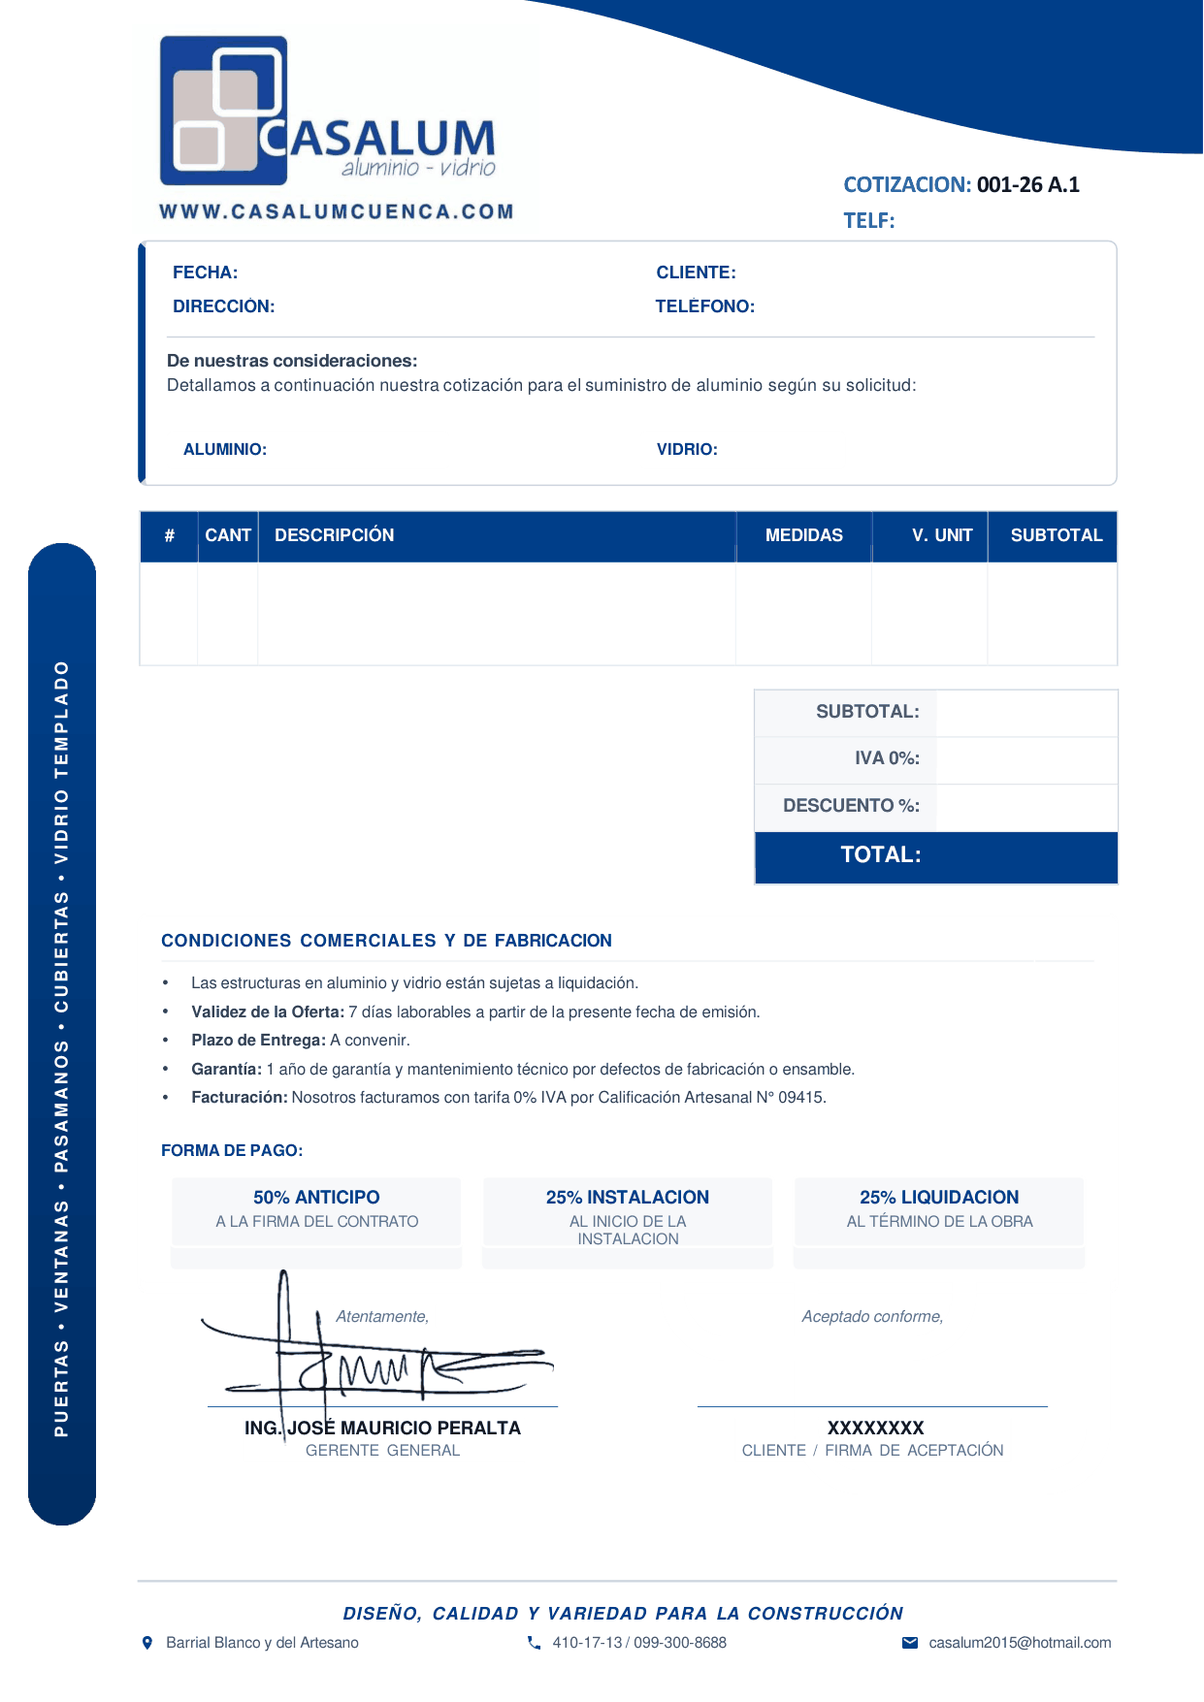
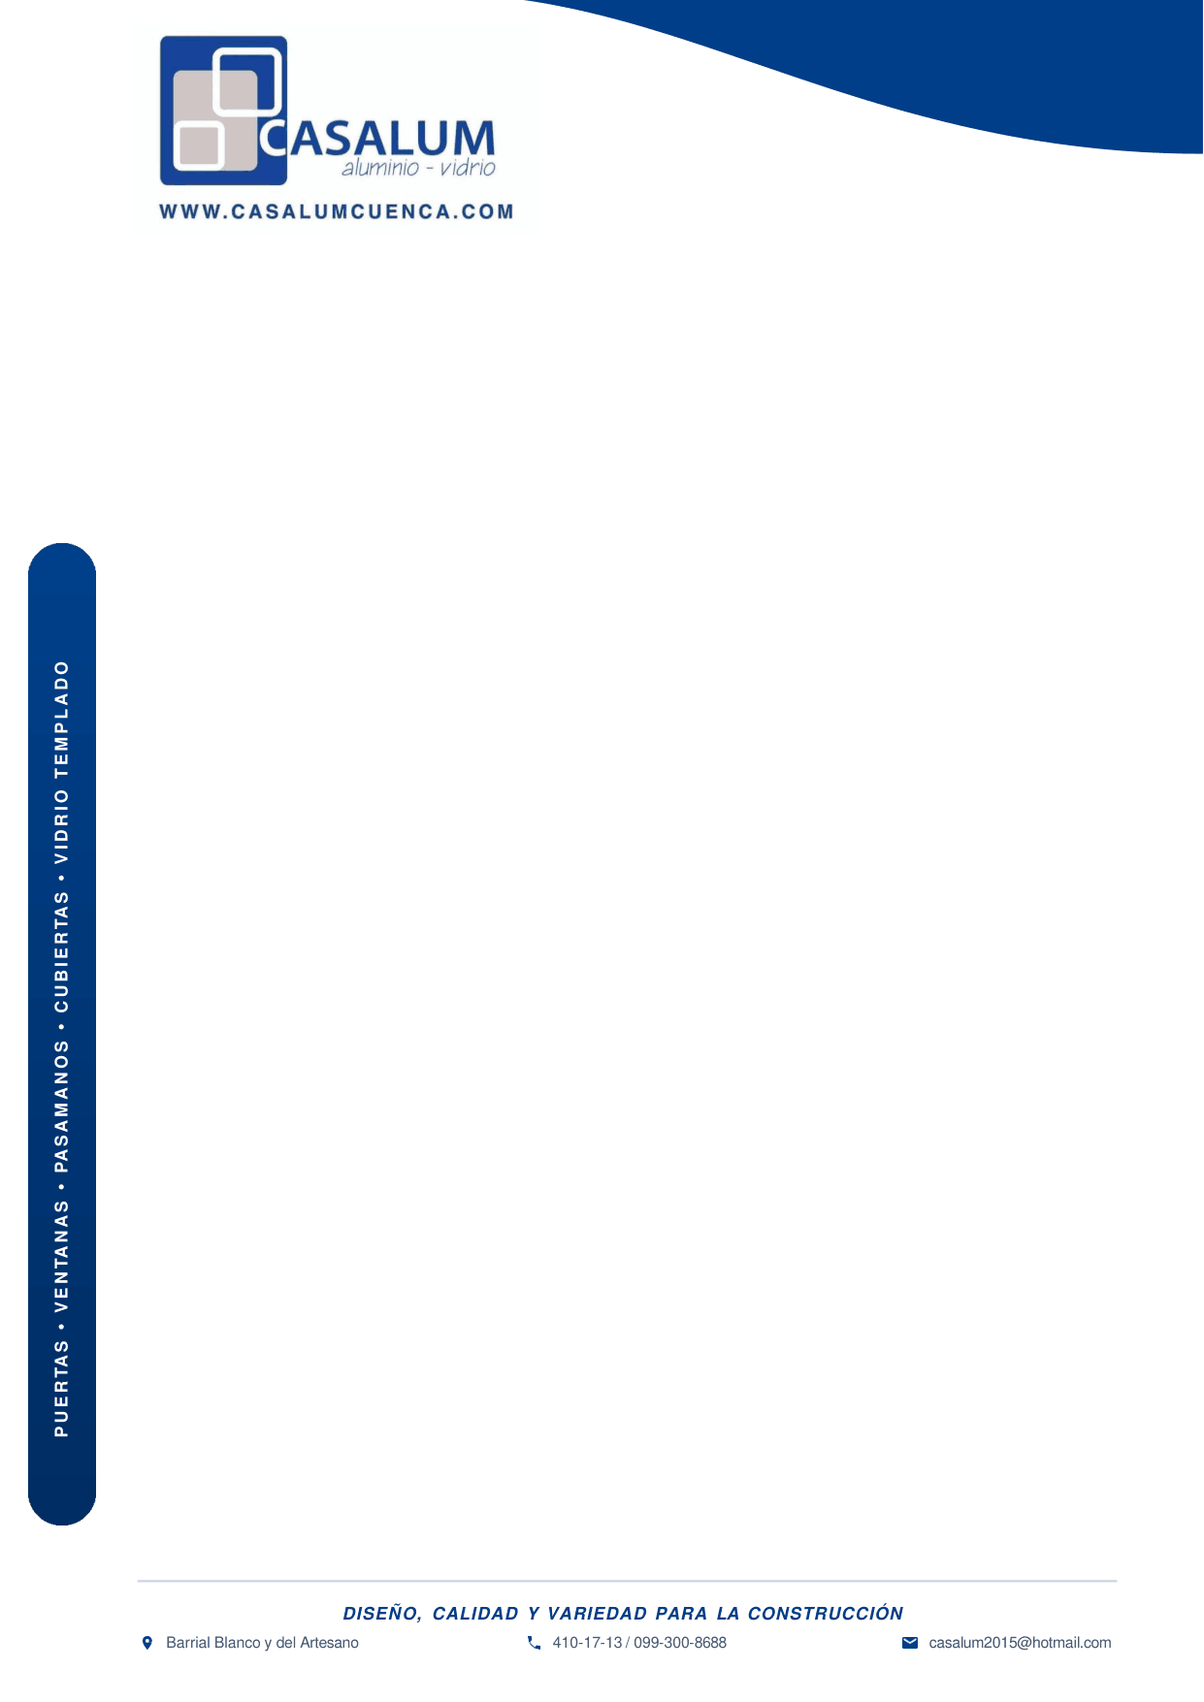
Documento con el diseno nuevo: el marco de fondo y el formulario en HTML
El membrete que quedo en assets era el formulario COMPLETO (rotulos,
tabla vacia, totales, condiciones y firmas ya dibujados), asi que el
documento escribia sus datos encima y salia todo superpuesto.

Se separa en dos: membrete-formulario.png guarda el diseno tal como lo
mando Mati, y membrete.png queda solo con el marco (logo, franja azul,
barra lateral y pie). El formulario se redibuja en HTML sobre ese marco.

Se hizo asi, y no dejando el formulario en la imagen, porque con el
formulario dibujado habria que escribir en coordenadas fijas y volvia el
problema viejo: descripciones cortadas y un tope de filas por hoja. Con
el formulario en HTML la tabla crece y pagina sola.

El diseno reproduce el del usuario: ficha del cliente, tabla
# CANT DESCRIPCION MEDIDAS V. UNIT SUBTOTAL, cuadro de totales con
SUBTOTAL/IVA/DESCUENTO/TOTAL, condiciones comerciales, las tres cajas de
forma de pago y las dos firmas con la firma real del gerente.

Margenes medidos sobre el marco nuevo: arriba 39 mm, abajo 23 mm,
izquierda 19 mm (la barra lateral llega a 16,6 mm).

Verificado imprimiendo con Chrome headless los 54 items de la 167-26:
4 paginas A4, el marco en TODAS, encabezado de tabla repetido, cero
superposiciones y descripciones completas.

diff --git a/js/word.js b/js/word.js
@@ -10,27 +10,33 @@
  *   · Word -> el mismo HTML con marcas de Office, descargado como .doc
  *   · PDF  -> el mismo HTML impreso desde un iframe aislado (Guardar como PDF)
  *
- * El formato copia la cotización real de Casalum (ver 167-26 A.1): mismas
- * columnas (VIDRIO, BASE y ALTURA separadas), mismo encabezado de carta y
- * mismo bloque de condiciones y firmas.
+ * El diseño reproduce el formulario que armó el usuario
+ * (assets/membrete-formulario.png): ficha del cliente, tabla de detalle,
+ * cuadro de totales, condiciones comerciales, formas de pago y firmas.
  *
- * MEMBRETE: va como imagen de fondo a hoja completa, repetida en todas las
- * páginas. El contenido no se dibuja encima porque la tabla exterior reserva
- * con thead/tfoot el alto del encabezado y del pie en CADA hoja — un
- * padding-top no serviría, se aplica una sola vez y las hojas siguientes
- * arrancarían pisando el logo.
+ * MARCO: `assets/membrete.png` es ese mismo diseño pero SIN el formulario —
+ * solo el logo, la franja azul, la barra lateral y el pie. Se le borró el
+ * cuerpo a propósito: si se dejara el formulario dibujado en la imagen, habría
+ * que escribir los datos en coordenadas fijas y volveríamos al problema viejo
+ * (descripciones cortadas y una cantidad tope de filas por hoja). Acá la
+ * imagen es solo el papel y el formulario se dibuja en HTML, así la tabla
+ * crece y pagina sola.
  *
- * Los márgenes salen de medir la cotización real: texto desde el 6,3% del
- * ancho, arriba al 12,8% y abajo hasta el 92,4% del alto.
+ * El marco va como imagen fija a hoja completa, repetida en todas las páginas.
+ * El contenido no lo pisa porque la tabla exterior reserva con thead/tfoot el
+ * alto del encabezado y del pie en CADA hoja — un padding-top se aplica una
+ * sola vez y las hojas siguientes arrancarían encima del logo.
  *
  * Todo el maquetado va con TABLAS y estilos en línea a propósito: Word no
  * entiende flexbox ni grid, y las hojas de estilo aparte las aplica a medias.
  */
 class QuotationDocument {
 
-    // Zona libre de la hoja, medida sobre la cotización real (mm sobre A4).
+    // Zona libre de la hoja, medida sobre assets/membrete.png (mm sobre A4):
+    // el logo y la franja azul llegan hasta 38,6 mm; la barra lateral ocupa los
+    // primeros 16,6 mm de ancho; el pie arranca a los 275,7 mm.
     static get MARGENES() {
-        return { arriba: 38, abajo: 25, izquierda: 13, derecha: 8 };
+        return { arriba: 39, abajo: 23, izquierda: 19, derecha: 10 };
     }
 
     // ── Datos ────────────────────────────────────────────────────
@@ -113,6 +119,8 @@ class QuotationDocument {
     safe(v) { return this.clean(v).replace(/[^a-z0-9áéíóúüñ]+/gi, '_') || 'Cliente'; }
     num(v) { return (Number(v) || 0).toLocaleString('en-US', { minimumFractionDigits: 2, maximumFractionDigits: 2 }); }
     money(v) { return `$${this.num(v)}`; }
+    /** Porcentaje sin decimales de relleno: 15 -> "15", 12.5 -> "12.5". */
+    pct(v) { return String(Math.round((Number(v) || 0) * 100) / 100); }
     esc(v) { return window.escapeHtml ? window.escapeHtml(v == null ? '' : v) : String(v == null ? '' : v); }
 
     /**
@@ -169,123 +177,178 @@ class QuotationDocument {
         const { meta, cart, totals, ajustes } = data;
         const M = QuotationDocument.MARGENES;
 
-        const totalSinDescuento = Number(totals.subtotalFinal) ||
+        const AZUL = '#003E89';
+        const AZUL_OSC = '#003676';
+        const GRIS_BG = '#ECEFF2';
+        const BORDE = '#C9D2DE';
+        const GRIS_TX = '#6B7280';
+
+        const subtotal = Number(totals.subtotalFinal) ||
             cart.reduce((s, i) => s + (Number(i.total) || 0), 0);
         const pctDescuento = Number(totals.discountPct) || 0;
-        const totalFinal = Number(totals.total) || totalSinDescuento;
-        const unidades = cart.reduce((s, i) => s + (Number(i.quantity) || 0), 0);
+        const valorDescuento = Number(totals.discountValor) || 0;
+        const total = Number(totals.total) || subtotal;
         const formaPago = Array.isArray(ajustes.formaPago) ? ajustes.formaPago : [];
 
         const filas = cart.map((item, i) => {
             const md = this.medidas(item);
-            return `<tr>
-                <td style="${this.cel} text-align:center;">${i + 1}</td>
-                <td style="${this.cel} text-align:center;">${this.esc(item.quantity || 1)}</td>
-                <td style="${this.cel} font-weight:bold;">${this.esc(item.description || 'PRODUCTO DE ALUMINIO')}</td>
-                <td style="${this.cel} text-align:center;">${this.esc(this.vidrioCorto(item.glassType))}</td>
-                <td style="${this.cel} text-align:center;">${md.base}</td>
-                <td style="${this.cel} text-align:center;">${md.alto}</td>
-                <td style="${this.cel} text-align:center;">${this.num(item.unitPrice)}</td>
-                <td style="${this.cel} text-align:center;">${this.num(item.total)}</td>
+            const medida = (md.base && md.alto) ? `${md.base} x ${md.alto}` : '';
+            const fondo = i % 2 ? ' background:#F7F9FC;' : '';
+            return `<tr style="${fondo}">
+                <td style="${this.cel} text-align:center; color:${GRIS_TX};">${i + 1}</td>
+                <td style="${this.cel} text-align:center; font-weight:bold;">${this.esc(item.quantity || 1)}</td>
+                <td style="${this.cel}">${this.esc(item.description || 'PRODUCTO DE ALUMINIO')}</td>
+                <td style="${this.cel} text-align:center; white-space:nowrap;">${medida}</td>
+                <td style="${this.cel} text-align:right; white-space:nowrap;">${this.num(item.unitPrice)}</td>
+                <td style="${this.cel} text-align:right; white-space:nowrap; font-weight:bold;">${this.num(item.total)}</td>
             </tr>`;
         }).join('');
 
-        // Última fila del cuadro: cantidad total de unidades y el importe, igual
-        // que en las cotizaciones en papel.
-        const filaCierre = `<tr>
-            <td style="${this.cel}">&nbsp;</td>
-            <td style="${this.cel} text-align:center; font-weight:bold;">${unidades}</td>
-            <td style="${this.cel}">&nbsp;</td>
-            <td style="${this.cel}">&nbsp;</td>
-            <td style="${this.cel}">&nbsp;</td>
-            <td style="${this.cel}">&nbsp;</td>
-            <td style="${this.cel}">&nbsp;</td>
-            <td style="${this.cel} text-align:center; font-weight:bold; background:#FFFF00;">${this.num(totalSinDescuento)}</td>
+        // Rótulo azul + valor, como en el diseño del formulario.
+        const campo = (rot, val) =>
+            `<span style="color:${AZUL}; font-weight:bold;">${rot}</span> ${this.esc(val || '')}`;
+
+        const filaTotal = (rot, val, destacado) => `<tr${destacado ? ` style="background:${AZUL}; color:#FFF;"` : ''}>
+            <td style="padding:4pt 8pt; font-size:${destacado ? '11' : '9'}pt; font-weight:bold; text-align:right; ${destacado ? '' : `background:${GRIS_BG}; color:${AZUL};`} border:1px solid ${BORDE};">${rot}</td>
+            <td style="padding:4pt 8pt; font-size:${destacado ? '11' : '9'}pt; font-weight:bold; text-align:right; white-space:nowrap; border:1px solid ${BORDE};">${val}</td>
         </tr>`;
 
+        const cajaPago = (titulo, detalle) => `<td style="width:33.33%; padding:0 3pt;">
+            <div style="background:${GRIS_BG}; padding:6pt 4pt; text-align:center;">
+                <div style="color:${AZUL}; font-weight:bold; font-size:9pt;">${this.esc(titulo)}</div>
+                <div style="color:${GRIS_TX}; font-size:8pt;">${this.esc(detalle)}</div>
+            </div>
+        </td>`;
+
+        // "50% A LA FIRMA DEL CONTRATO" -> titulo "50%" + detalle. Si el ajuste
+        // no trae porcentaje adelante, va todo como titulo.
+        const partirPago = (txt) => {
+            const m = this.clean(txt).match(/^(\d+%)\s+(.*)$/);
+            return m ? { t: m[1], d: m[2] } : { t: this.clean(txt), d: '' };
+        };
+
         const cuerpo = `
-<!-- Encabezado de carta: solo en la primera hoja -->
-<table style="width:100%; border-collapse:collapse; margin-bottom:6pt;">
+<table style="width:100%; border-collapse:collapse; margin-bottom:7pt;">
     <tr>
-        <td style="${this.dato} width:62%;">FECHA:&nbsp; CUENCA ${this.esc(meta.date)}</td>
-        <td style="${this.dato} color:#1B6EC2; font-weight:bold;">COTIZACION ${this.esc(meta.codigo)}</td>
-    </tr>
-    <tr>
-        <td style="${this.dato}">CLIENTE: ${this.esc(meta.client)}</td>
-        <td style="${this.dato} color:#1B6EC2;">TELF : ${this.esc(meta.phone)}</td>
-    </tr>
-    <tr>
-        <td style="${this.dato}" colspan="2">DIRECCION: ${this.esc(meta.address)}</td>
+        <td style="text-align:right; font-size:11pt;">
+            <span style="color:${AZUL}; font-weight:bold;">COTIZACION:</span>
+            <span style="font-weight:bold;">${this.esc(meta.codigo)}</span>
+        </td>
     </tr>
 </table>
 
-<div style="font-size:8pt; font-weight:bold; margin-bottom:3pt;">De nuestras consideraciones:</div>
-<div style="font-size:8pt; font-weight:bold; margin-bottom:5pt;">Detallamos a continuación nuestra cotización para el suministro de aluminio según su solicitud:</div>
-<div style="font-size:9pt; font-weight:bold;">ALUMINIO : ${this.esc(meta.aluminum)}</div>
-<div style="font-size:9pt; font-weight:bold; margin-bottom:6pt;">VIDRIO: ${this.esc(meta.glass)}</div>
+<!-- Ficha del cliente -->
+<table style="width:100%; border-collapse:collapse; border:1px solid ${BORDE}; margin-bottom:9pt;">
+    <tr>
+        <td style="width:4pt; background:${AZUL}; padding:0;"></td>
+        <td style="padding:7pt 10pt;">
+            <table style="width:100%; border-collapse:collapse;">
+                <tr>
+                    <td style="${this.ficha} width:52%;">${campo('FECHA:', 'CUENCA ' + meta.date)}</td>
+                    <td style="${this.ficha}">${campo('CLIENTE:', meta.client)}</td>
+                </tr>
+                <tr>
+                    <td style="${this.ficha}">${campo('DIRECCIÓN:', meta.address)}</td>
+                    <td style="${this.ficha}">${campo('TELÉFONO:', meta.phone)}</td>
+                </tr>
+            </table>
+            <div style="border-top:1px solid ${BORDE}; margin:6pt 0;"></div>
+            <div style="font-size:9pt; font-weight:bold; color:${AZUL};">De nuestras consideraciones:</div>
+            <div style="font-size:9pt; margin-bottom:6pt;">Detallamos a continuación nuestra cotización para el suministro de aluminio según su solicitud:</div>
+            <table style="width:100%; border-collapse:collapse;">
+                <tr>
+                    <td style="${this.ficha} width:52%;">${campo('ALUMINIO:', meta.aluminum)}</td>
+                    <td style="${this.ficha}">${campo('VIDRIO:', meta.glass)}</td>
+                </tr>
+            </table>
+        </td>
+    </tr>
+</table>
 
-<table style="width:100%; border-collapse:collapse;">
+<!-- Detalle -->
+<table style="width:100%; border-collapse:collapse; margin-bottom:9pt;">
     <thead>
-        <tr>
-            <th style="${this.enc} width:4%;">&nbsp;</th>
-            <th style="${this.enc} width:6%;">CANT</th>
-            <th style="${this.enc}">DESCRIPCION</th>
-            <th style="${this.enc} width:8%;">VIDRIO</th>
-            <th style="${this.enc} width:7%;">BASE</th>
-            <th style="${this.enc} width:8%;">ALTURA</th>
-            <th style="${this.enc} width:9%;">VALOR<br>UNIT</th>
-            <th style="${this.enc} width:9%;">TOTAL</th>
+        <tr style="background:${AZUL}; color:#FFFFFF;">
+            <th style="${this.enc} width:5%;">#</th>
+            <th style="${this.enc} width:7%;">CANT</th>
+            <th style="${this.enc} text-align:left;">DESCRIPCIÓN</th>
+            <th style="${this.enc} width:15%;">MEDIDAS</th>
+            <th style="${this.enc} width:13%; text-align:right;">V. UNIT</th>
+            <th style="${this.enc} width:14%; text-align:right;">SUBTOTAL</th>
         </tr>
     </thead>
-    <tbody>${filas}${filaCierre}</tbody>
+    <tbody>${filas}</tbody>
 </table>
 
-<table style="width:100%; border-collapse:collapse; margin-top:6pt;">
+<!-- Totales -->
+<table style="width:100%; border-collapse:collapse; margin-bottom:12pt; page-break-inside:avoid;">
     <tr>
-        <td style="font-size:11pt; font-weight:bold; padding:2pt 0; width:30%;">TOTAL</td>
-        <td style="font-size:11pt; font-weight:bold; padding:2pt 0;">${this.num(totalSinDescuento)}</td>
+        <td style="width:58%;"></td>
+        <td>
+            <table style="width:100%; border-collapse:collapse;">
+                ${filaTotal('SUBTOTAL:', this.money(subtotal), false)}
+                ${filaTotal('IVA 0%:', this.money(0), false)}
+                ${pctDescuento > 0 ? filaTotal(`DESCUENTO ${this.pct(pctDescuento)}%:`, '-' + this.money(valorDescuento), false) : ''}
+                ${filaTotal('TOTAL:', this.money(total), true)}
+            </table>
+        </td>
     </tr>
-    ${pctDescuento > 0 ? `<tr>
-        <td style="font-size:10.5pt; font-weight:bold; padding:2pt 0; text-align:right;">DESCUENTO ${this.num(pctDescuento).replace(/\.00$/, '')}% =&nbsp;&nbsp;</td>
-        <td style="font-size:10.5pt; font-weight:bold; padding:2pt 0;">${this.num(totalFinal)}</td>
-    </tr>` : ''}
 </table>
 
-<div style="margin-top:6pt; font-size:8pt; line-height:1.55;">
-    <div>ESTRUCTURAS EN ALUMINIO Y VIDRIO ESTAN SUJETAS A LIQUIDACION</div>
-    ${formaPago.length ? `<div>FORMA DE PAGO: ${this.esc(formaPago[0])}</div>` +
-        formaPago.slice(1).map(f => `<div style="padding-left:78pt;">${this.esc(f)}</div>`).join('') : ''}
-    <div style="font-weight:bold;">VALIDEZ DE LA OFERTA : ${this.esc(ajustes.validezOferta || '7 DIAS LABORABLES')}</div>
-    <div style="font-weight:bold;">PLAZO DE ENTREGA : ${this.esc(ajustes.plazoEntrega || 'A CONVENIR')}</div>
-    <div style="font-weight:bold;">GARANTIA Y MANTENIMIENTO DE ${this.esc(ajustes.garantia || 'UN AÑO POR DEFECTOS DE FABRICACION')}</div>
-    <div style="font-weight:bold;">NOSOTROS FACTURAMOS CON TARIFA 0 &nbsp; ${this.esc(ajustes.companyCalif || '')}</div>
-    <div style="margin-top:2pt;">ATENTAMENTE</div>
+<!-- Condiciones -->
+<div style="page-break-inside:avoid;">
+    <div style="color:${AZUL}; font-weight:bold; font-size:9.5pt; letter-spacing:0.6pt;">CONDICIONES COMERCIALES Y DE FABRICACIÓN</div>
+    <div style="border-top:1px solid ${BORDE}; margin:4pt 0 6pt;"></div>
+    <table style="width:100%; border-collapse:collapse; font-size:8.5pt;">
+        ${[
+            'Las estructuras en aluminio y vidrio están sujetas a liquidación.',
+            `<b>Validez de la Oferta:</b> ${this.esc(ajustes.validezOferta || '7 días laborables a partir de la presente fecha de emisión.')}`,
+            `<b>Plazo de Entrega:</b> ${this.esc(ajustes.plazoEntrega || 'A convenir.')}`,
+            `<b>Garantía:</b> ${this.esc(ajustes.garantia || '1 año de garantía y mantenimiento técnico por defectos de fabricación o ensamble.')}`,
+            `<b>Facturación:</b> Nosotros facturamos con tarifa 0% IVA por ${this.esc(ajustes.companyCalif || '')}.`
+        ].map(t => `<tr>
+            <td style="width:14pt; vertical-align:top; padding:1.5pt 0; color:${AZUL};">&bull;</td>
+            <td style="padding:1.5pt 0;">${t}</td>
+        </tr>`).join('')}
+    </table>
 </div>
 
-<table style="width:100%; border-collapse:collapse; margin-top:14pt; page-break-inside:avoid;">
+${formaPago.length ? `<div style="margin-top:10pt; page-break-inside:avoid;">
+    <div style="color:${AZUL}; font-weight:bold; font-size:9pt; margin-bottom:5pt;">FORMA DE PAGO:</div>
+    <table style="width:100%; border-collapse:collapse;">
+        <tr>${formaPago.slice(0, 3).map(p => { const s = partirPago(p); return cajaPago(s.t, s.d); }).join('')}</tr>
+    </table>
+</div>` : ''}
+
+<!-- Firmas -->
+<table style="width:100%; border-collapse:collapse; margin-top:16pt; page-break-inside:avoid;">
     <tr>
-        <!-- La firma se apoya sobre la línea, como en la cotización original.
-             El alto fijo reserva su espacio aunque la imagen no cargue. -->
-        <td style="width:48%; height:44pt; vertical-align:bottom; padding:0;">
-            ${firmaDataUri ? `<img src="${firmaDataUri}" alt="" style="height:42pt; margin-bottom:-6pt;">` : '&nbsp;'}
+        <td style="width:50%; font-size:8.5pt; font-style:italic; color:${GRIS_TX}; padding-left:26pt;">Atentamente,</td>
+        <td style="font-size:8.5pt; font-style:italic; color:${GRIS_TX}; padding-left:26pt;">Aceptado conforme,</td>
+    </tr>
+    <tr>
+        <!-- La firma se apoya sobre la línea; el alto fijo reserva su lugar
+             aunque la imagen no llegue a cargar. -->
+        <td style="height:46pt; vertical-align:bottom; padding:0 0 0 14pt;">
+            ${firmaDataUri ? `<img src="${firmaDataUri}" alt="" style="height:44pt; margin-bottom:-8pt;">` : '&nbsp;'}
         </td>
         <td style="padding:0;">&nbsp;</td>
     </tr>
     <tr>
-        <td style="font-size:8.5pt; vertical-align:top;">
-            <div style="border-top:1px solid #000; width:170pt;"></div>
+        <td style="font-size:8.5pt; text-align:center; padding-right:24pt;">
+            <div style="border-top:1px solid ${AZUL_OSC}; margin-bottom:3pt;"></div>
             <div style="font-weight:bold;">${this.esc(ajustes.companyRep || '')}</div>
-            <div style="padding-left:22pt;">${this.esc(ajustes.companyRepTitle || '')}</div>
+            <div style="color:${GRIS_TX};">${this.esc(ajustes.companyRepTitle || '')}</div>
         </td>
-        <td style="font-size:8.5pt; vertical-align:top;">
-            <div style="border-top:1px solid #000; width:200pt;"></div>
-            <div>${this.esc(meta.client)}</div>
-            <div style="padding-left:40pt;">CLIENTE</div>
+        <td style="font-size:8.5pt; text-align:center; padding-left:24pt;">
+            <div style="border-top:1px solid ${AZUL_OSC}; margin-bottom:3pt;"></div>
+            <div style="font-weight:bold;">${this.esc(meta.client)}</div>
+            <div style="color:${GRIS_TX};">CLIENTE / FIRMA DE ACEPTACIÓN</div>
         </td>
     </tr>
 </table>`;
 
-        // El membrete va como imagen fija a hoja completa: en la impresión los
+        // El marco va como imagen fija a hoja completa: al imprimir, los
         // elementos "fixed" se repiten en todas las páginas. Se usa <img> y no
         // un background de CSS porque los fondos solo se imprimen si el usuario
         // activa "Gráficos de fondo", que viene apagado.
@@ -293,7 +356,7 @@ class QuotationDocument {
             ? `<img src="${membreteDataUri}" alt="" style="position:fixed; top:0; left:0; width:210mm; height:297mm; z-index:0;">`
             : '';
 
-        // La tabla exterior reserva el alto del membrete arriba y abajo en CADA
+        // La tabla exterior reserva el alto del marco arriba y abajo en CADA
         // hoja: thead y tfoot se repiten solos al cortar la página.
         return `${fondo}
 <table style="width:100%; border-collapse:collapse; position:relative; z-index:1;">
@@ -304,9 +367,9 @@ class QuotationDocument {
     }
 
     /** Estilos repetidos, para no reescribirlos en cada celda. */
-    get cel() { return 'border:1px solid #000; padding:2.5pt 3pt; font-size:7.5pt; vertical-align:middle;'; }
-    get enc() { return 'border:1px solid #000; padding:3pt; font-size:7.5pt; text-align:center; font-weight:bold; vertical-align:middle;'; }
-    get dato() { return 'padding:1pt 0; font-size:9pt; font-weight:bold; vertical-align:top;'; }
+    get cel()   { return 'border:1px solid #C9D2DE; padding:3.5pt 5pt; font-size:8pt; vertical-align:top;'; }
+    get enc()   { return 'border:1px solid #003E89; padding:4.5pt; font-size:8pt; text-align:center; font-weight:bold;'; }
+    get ficha() { return 'padding:2pt 0; font-size:9pt; vertical-align:top;'; }
 
     /** Envuelve la maqueta en un documento completo. */
     envolver(cuerpo, titulo, paraWord) {

diff --git a/index.html b/index.html
@@ -1372,7 +1372,7 @@
     <script src="js/quotations.js?v=50"></script>
     <script src="js/clients.js?v=9"></script>
     <script src="js/pdf.js?v=4"></script>
-    <script src="js/word.js?v=4"></script>
+    <script src="js/word.js?v=6"></script>
     <script src="js/catalog.js?v=15"></script>
     <script src="js/modules.js?v=21"></script>
     <script src="js/settings.js?v=3"></script>
